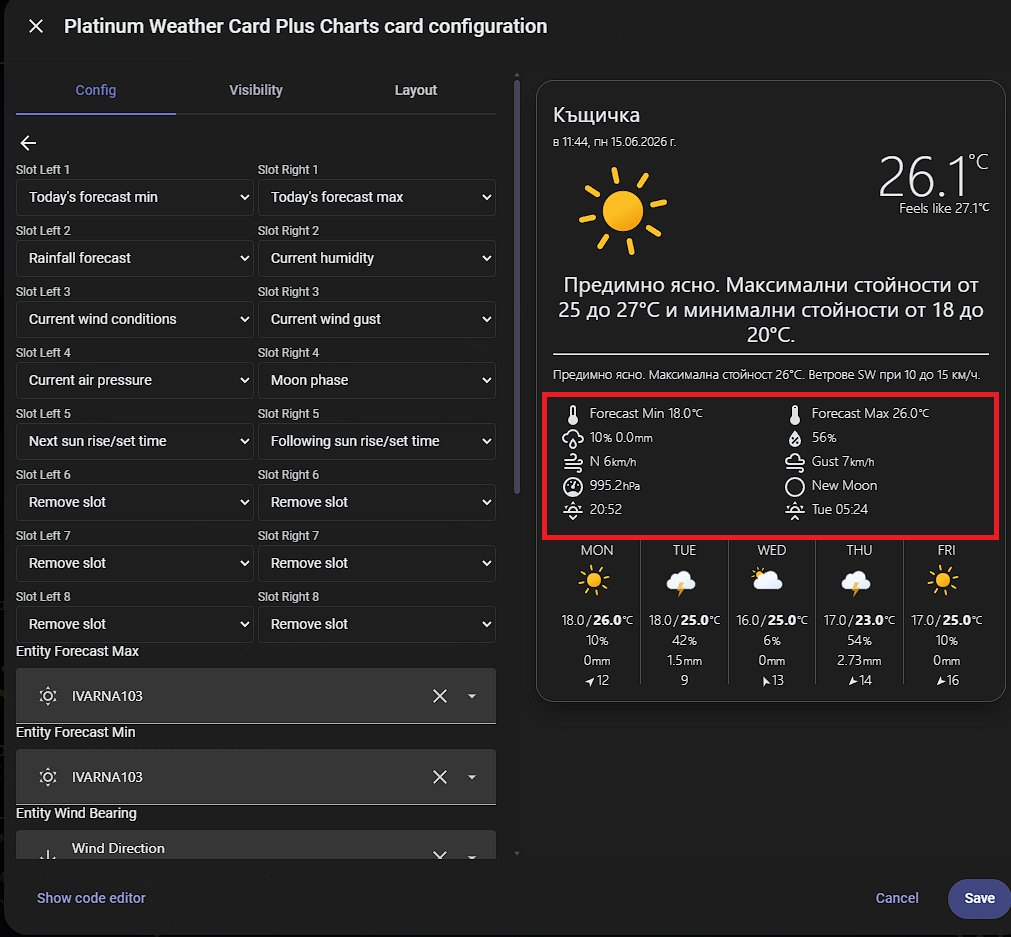
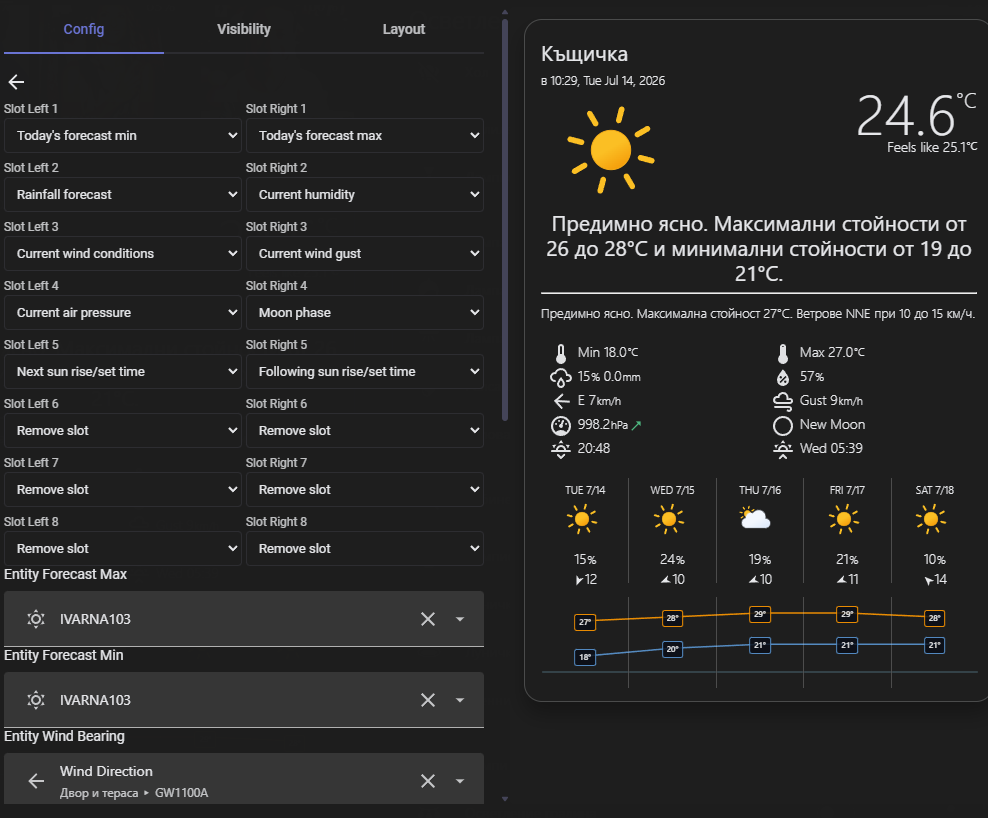
docs: fresh screenshots for 2.1.0
- editor-sections, global-options, slots-section-highlighted updated
  to the new toggle-switch editor
- new: overview-options-zambretti (editor options + short forecast),
  local-forecast-zambretti (verbose text), daily-forecast-dates
- embedded in Screenshots table, Zambretti docs and Daily Forecast docs

diff --git a/README.md b/README.md
@@ -300,6 +300,11 @@ Install via HACS as a custom repository:
 
 </td>
 <td align="center" width="50%">
+
+**Local Zambretti forecast (verbose)**
+
+![Local forecast](images/local-forecast-zambretti.png)
+
 </td>
 </tr>
 </table>
@@ -352,6 +357,10 @@ The card can compute a short local forecast entirely from your own weather stati
 Enable it in the editor: **Overview Section → Options → Local forecast (Zambretti)**. When enabled, the computed forecast text replaces the `entity_summary` text in the overview section, localized to the card's configured language (one of 26 phrases, e.g. *"Fine weather"*, *"Unsettled, rain later"*, *"Stormy, much rain"*).
 
 A **Verbose forecast text** toggle expands the short phrase into a full sentence with a pressure-tendency clause, e.g. *"Unsettled weather, with rain expected later. The pressure is falling."*
+
+| Short | Verbose |
+|-------|---------|
+| ![Editor options and short forecast](images/overview-options-zambretti.png) | ![Verbose forecast](images/local-forecast-zambretti.png) |
 
 Inputs used:
 
@@ -489,6 +498,10 @@ Hovering over any forecast day column shows a tooltip with date, weather descrip
 | Include Today in Forecast | Boolean | Start the strip from today instead of tomorrow |
 | Show date next to day | Boolean | Locale-formatted date after the day name (day label font shrinks to fit) |
 | Show forecast wind | Boolean | Wind speed/direction in each forecast column |
+
+With **Show date next to day** enabled:
+
+![Daily forecast with dates](images/daily-forecast-dates.png)
 
 ## Charts Section
 
